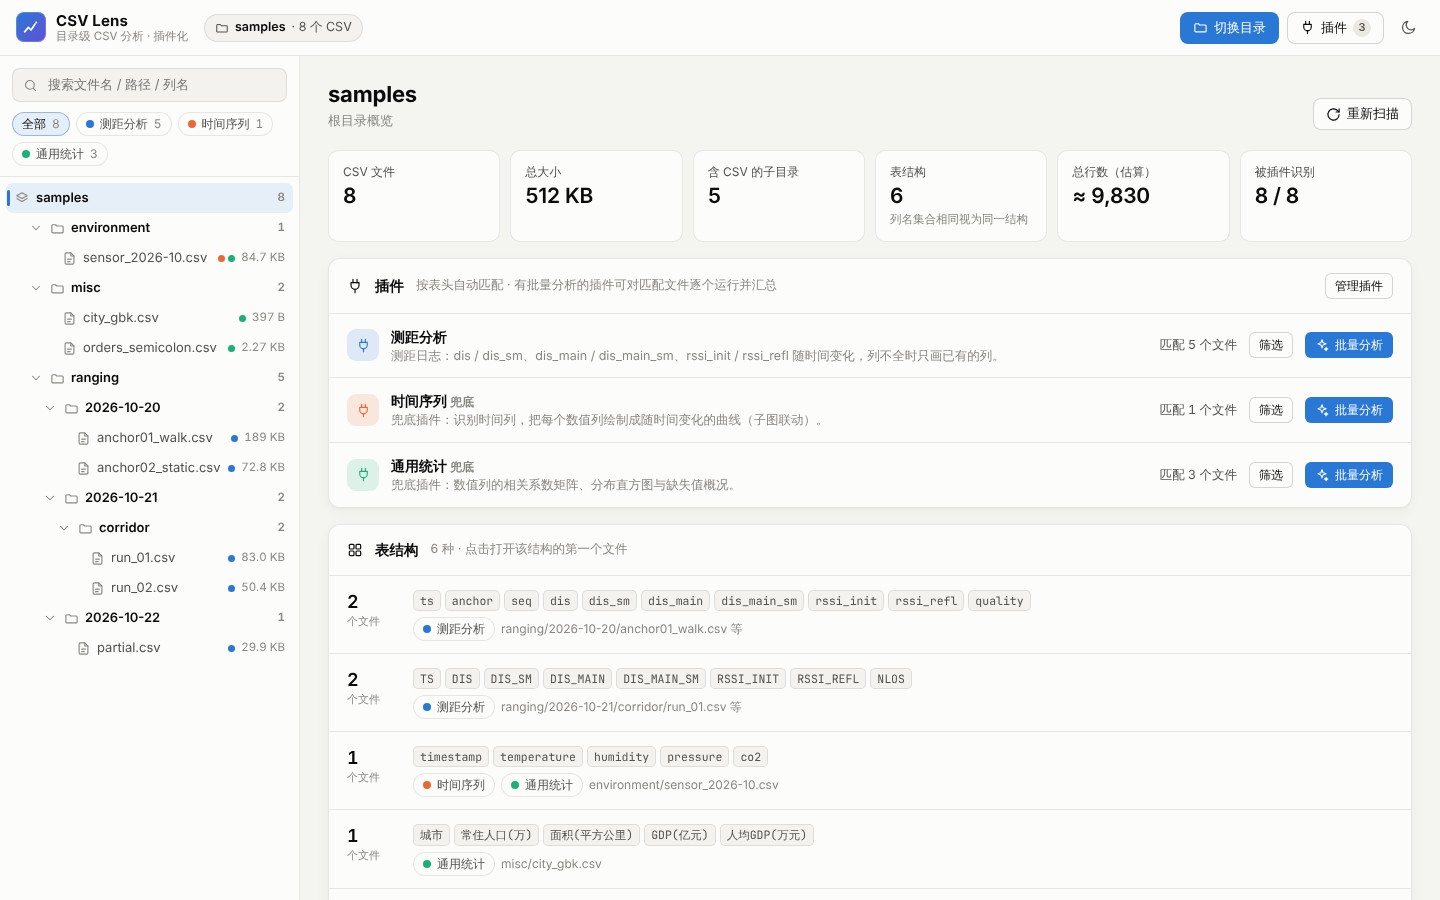
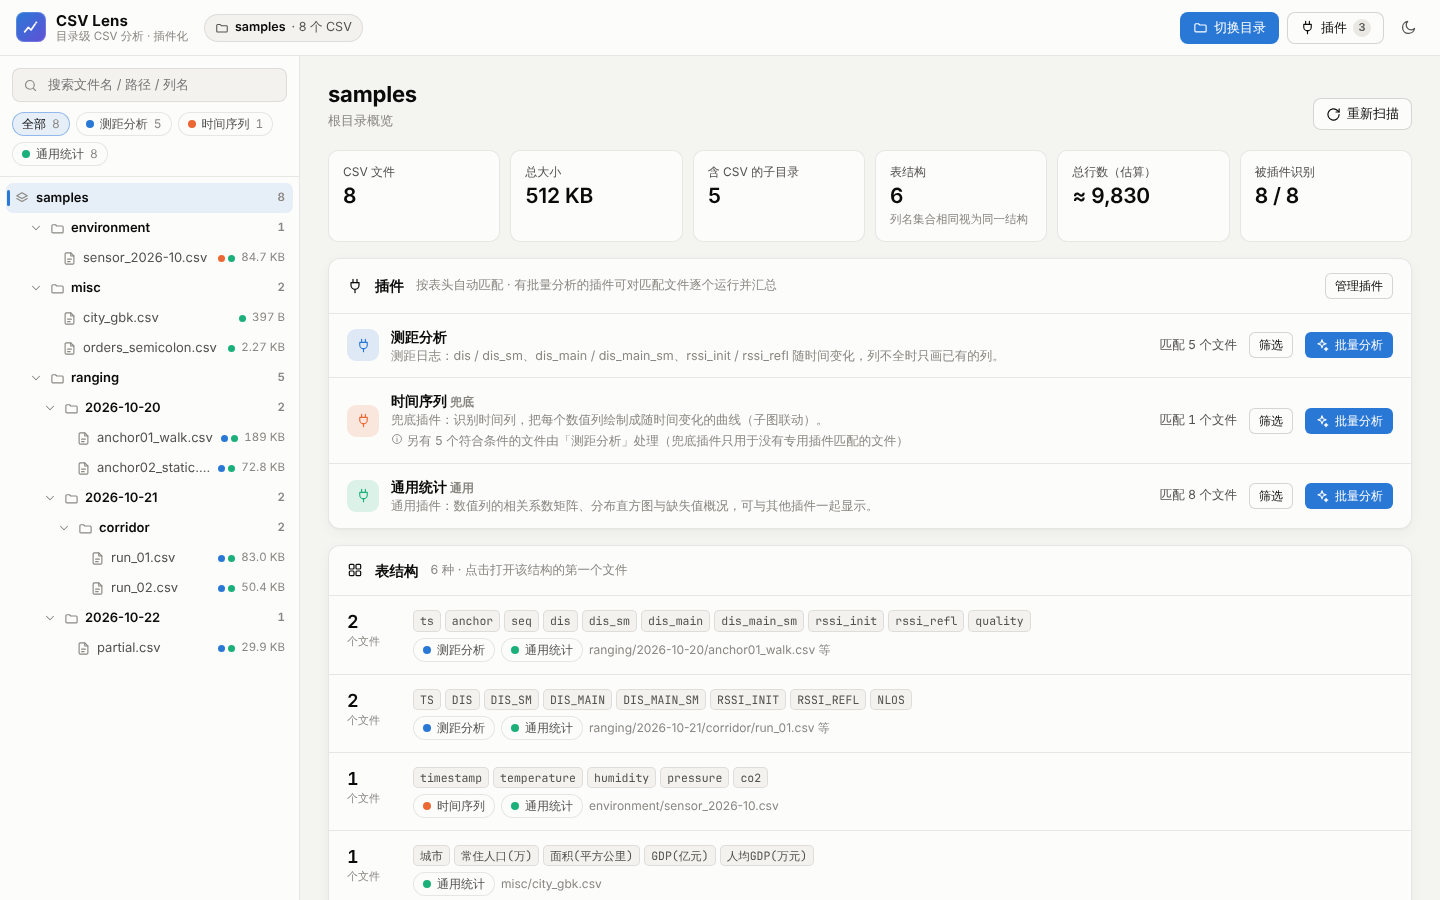
Show generic stats alongside dedicated plugins
Adds a third plugin kind, `general: true`: a general plugin is always
shown when it matches, alongside dedicated plugins, and does not make
fallback plugins step aside. generic-stats becomes a general plugin, so
ranging logs now show 测距分析 + 通用统计, while non-ranging time series
keep 时间序列 + 通用统计.

generic-stats now describes only the file's own columns (derived
features from other plugins are excluded from counts and missing-cell
rate) and leaves the time column and strictly increasing columns
(row numbers, counters) out of the correlation matrix and histograms.
The overview, plugin manager, README and template document the new
kind with a "通用" tag and tooltip.

Claude-Session: https://claude.ai/code/session_01Xv9E6Sow1sdjfL5LZ7da6U

Changed region(s): [[0.2188, 0.4356, 0.7188, 0.9956], [0.8125, 0.4356, 0.9688, 0.5911], [0.5312, 0.56, 0.5938, 0.5911]]

diff --git a/index.html b/index.html
@@ -1367,6 +1367,7 @@ function registerPlugin(def) {
     description: def.description ? String(def.description) : '',
     priority: Number(def.priority) || 0,
     fallback: !!def.fallback,
+    general: !!def.general,
     features: Array.isArray(def.features) ? def.features.filter(Boolean) : [],
     params: Array.isArray(def.params) ? def.params.filter((d) => d && d.key) : [],
     _match: compileMatcher(def.match),
@@ -2122,9 +2123,10 @@ function computeMatches() {
       try { return !!p._match(info); }
       catch (err) { console.warn('[CSV Lens] 插件 ' + p.id + ' 的 match() 出错：', err); return false; }
     }).map((p) => p.id);
+    // 专用插件（既非兜底也非通用）匹配时，兜底插件让位；通用插件总是一起显示
     const active = e.matchAll.filter((id) => Plugins.isEnabled(id)).map((id) => Plugins.byId.get(id));
-    const primary = active.filter((p) => !p.fallback);
-    e.matches = (primary.length ? primary : active).map((p) => p.id);
+    const dedicated = active.some((p) => !p.fallback && !p.general);
+    e.matches = active.filter((p) => !p.fallback || !dedicated).map((p) => p.id);
   }
 }
 function pluginsFor(e) { return (e.matches || []).map((id) => Plugins.byId.get(id)).filter(Boolean); }
@@ -2142,7 +2144,7 @@ function pluginCoverage(p, files) {
     eligible++;
     if ((e.matches || []).includes(p.id)) { active++; continue; }
     if (!Plugins.isEnabled(p.id)) continue;
-    for (const q of pluginsFor(e)) if (!q.fallback) takenBy.set(q.name, (takenBy.get(q.name) || 0) + 1);
+    for (const q of pluginsFor(e)) if (!q.fallback && !q.general) takenBy.set(q.name, (takenBy.get(q.name) || 0) + 1);
   }
   return { active, eligible, takenBy };
 }
@@ -2153,7 +2155,8 @@ function coverageNote(p, c) {
   const names = [...c.takenBy.keys()].map((n) => '「' + n + '」').join('、');
   return '另有 ' + taken + ' 个符合条件的文件由' + names + '处理（兜底插件只用于没有专用插件匹配的文件）';
 }
-const FALLBACK_TIP = '兜底插件：只用于没有其他（非兜底）插件匹配的文件；在「插件」面板停用专用插件后，兜底插件会接手这些文件';
+const FALLBACK_TIP = '兜底插件：只用于没有专用插件匹配的文件；在「插件」面板停用专用插件后，兜底插件会接手这些文件';
+const GENERAL_TIP = '通用插件：匹配时总是显示，可与专用插件同时出现，也不会让兜底插件让位';
 
 let pluginsChangedTimer = 0;
 function schedulePluginsChanged() {
@@ -2813,7 +2816,7 @@ function renderWelcome(main) {
         Plugins.list.length
           ? h('div', { class: 'plist' }, Plugins.sorted().map((p) => h('div', { class: 'prow' },
               h('span', { class: 'picon', style: { '--c': pluginColor(p) } }, icon('plug', 15)),
-              h('div', { class: 'grow' }, h('div', { class: 'pname' }, p.name, p.fallback ? h('span', { class: 'muted small' }, '  兜底') : null), h('div', { class: 'pdesc' }, matchSummary(p))))))
+              h('div', { class: 'grow' }, h('div', { class: 'pname' }, p.name, p.fallback ? h('span', { class: 'muted small' }, '  兜底') : null, p.general ? h('span', { class: 'muted small' }, '  通用') : null), h('div', { class: 'pdesc' }, matchSummary(p))))))
           : h('div', { class: 'card-body muted' }, '暂无插件。'))),
     h('p', { class: 'muted small', style: { marginTop: '18px' } }, '快捷键：', h('span', { class: 'kbd' }, 'J'), ' / ', h('span', { class: 'kbd' }, 'K'), ' 下一个 / 上一个文件，', h('span', { class: 'kbd' }, '/'), ' 搜索。'));
 }
@@ -2892,7 +2895,7 @@ function pluginOverviewCard(files, scope) {
     list.append(h('div', { class: 'prow', style: enabled ? null : { opacity: 0.55 } },
       h('span', { class: 'picon', style: { '--c': pluginColor(p) } }, icon('plug', 15)),
       h('div', { class: 'grow' },
-        h('div', { class: 'pname' }, p.name, p.fallback ? h('span', { class: 'muted small', title: FALLBACK_TIP }, '  兜底') : null, enabled ? null : h('span', { class: 'muted small' }, '  已停用')),
+        h('div', { class: 'pname' }, p.name, p.fallback ? h('span', { class: 'muted small', title: FALLBACK_TIP }, '  兜底') : null, p.general ? h('span', { class: 'muted small', title: GENERAL_TIP }, '  通用') : null, enabled ? null : h('span', { class: 'muted small' }, '  已停用')),
         h('div', { class: 'pdesc' }, p.description || matchSummary(p)),
         note ? h('div', { class: 'pdesc', style: { marginTop: '2px' } }, icon('info', 12), ' ', note) : null),
       h('span', { class: 'pcount' }, state.scanning ? '…' : '匹配 ' + n + ' 个文件'),
@@ -3526,7 +3529,7 @@ ${ys.map((y) => '    { title: ' + J(y + ' vs ' + (x || '行号')) + ", type: 'li
 const API_DOC_ROWS = [
   ['id / name / version / description', '基本信息；id 唯一，同 id 重新注册会覆盖（热更新）'],
   ['match', '匹配规则：{ columns, anyColumns, numericColumns, path, test } 或函数 (info) => boolean。列名不区分大小写，columns 里的数组表示别名'],
-  ['priority / fallback', '排序优先级；fallback: true 为兜底插件，只在没有其他插件匹配时启用'],
+  ['priority / fallback / general', '排序优先级；fallback: true 为兜底插件，只在没有专用插件匹配时启用；general: true 为通用插件，总是与其他插件一起显示，且不会让兜底插件让位'],
   ['params', '可调参数 [{ key, label, type: number | select | checkbox | text, default, options }]，在 ctx.params 中读取'],
   ['features', '衍生特征 [{ name, label, description, requires, compute(t, ctx) → 等长数组 }]，新列可用于绘图、导出；requires 中的列缺失时自动跳过'],
   ['metrics(t, ctx)', '返回指标卡片 [{ label, value, unit, digits, hint }]'],
@@ -3576,7 +3579,7 @@ function openPluginManager(initialTab) {
       body.append(h('div', { class: 'pm-row' },
         h('span', { class: 'picon', style: { '--c': pluginColor(p) } }, icon('plug', 16)),
         h('div', { class: 'grow' },
-          h('div', { class: 'pm-name' }, p.name, p.version ? h('span', { class: 'muted small' }, 'v' + p.version) : null, h('span', { class: 'tag' }, origin), p.fallback ? h('span', { class: 'tag', title: FALLBACK_TIP }, '兜底') : null, h('span', { class: 'muted small mono' }, p.id)),
+          h('div', { class: 'pm-name' }, p.name, p.version ? h('span', { class: 'muted small' }, 'v' + p.version) : null, h('span', { class: 'tag' }, origin), p.fallback ? h('span', { class: 'tag', title: FALLBACK_TIP }, '兜底') : null, p.general ? h('span', { class: 'tag', title: GENERAL_TIP }, '通用') : null, h('span', { class: 'muted small mono' }, p.id)),
           p.description ? h('div', { class: 'pm-desc' }, p.description) : null,
           h('div', { class: 'pm-meta' }, matchSummary(p), state.entries.length ? ' · 当前目录匹配 ' + cov.active + ' 个文件' : '', hooks ? ' · ' + hooks : ''),
           state.entries.length && note ? h('div', { class: 'pm-meta' }, icon('info', 12), ' ', note) : null,

diff --git a/plugins/generic-stats.js b/plugins/generic-stats.js
@@ -1,13 +1,53 @@
 /**
- * 通用统计（兜底插件）—— 任意含 ≥ 2 个数值列的 CSV：
+ * 通用统计（通用插件）—— 任意含 ≥ 2 个数值列的 CSV：
  * 相关系数矩阵、各数值列分布直方图、缺失值概况。
+ *
+ * general: true 表示「通用插件」：匹配时总是显示，可以和测距分析等专用插件一起出现，
+ * 也不会让「时间序列」这类兜底插件让位。
+ * 时间列和严格递增的列（序号、计数器、时间戳）分布均匀、与其他列的相关性没有意义，
+ * 因此不参与相关矩阵和直方图。
  */
+(() => {
+// 严格递增的数值列视为序号 / 时间轴
+function isIndexLike(values) {
+  let prev = -Infinity, n = 0;
+  for (let i = 0; i < values.length; i++) {
+    const v = values[i];
+    if (!Number.isFinite(v)) continue;
+    if (v <= prev) return false;
+    prev = v;
+    n++;
+  }
+  return n > 2;
+}
+
+// 只统计文件本身的列（不含其他插件算出的衍生特征）
+function originalColumns(t) {
+  const all = t.columns.filter((c) => !t.getColumn(c).derived);
+  return { all, numeric: all.filter((c) => t.isNumeric(c)) };
+}
+
+// 缺失单元格占比（%）
+function missingPct(t, cols) {
+  let missing = 0;
+  for (const name of cols) missing += t.stats(name).missing;
+  const cells = t.rowCount * cols.length;
+  return cells ? (missing / cells) * 100 : 0;
+}
+
+function statColumns(t, utils, max) {
+  const tc = utils.timeColumn(t);
+  return originalColumns(t).numeric
+    .filter((c) => c !== tc && !isIndexLike(t.col(c)))
+    .slice(0, max);
+}
+
 CSVViewer.registerPlugin({
   id: 'generic-stats',
   name: '通用统计',
-  version: '1.0.0',
-  description: '兜底插件：数值列的相关系数矩阵、分布直方图与缺失值概况。',
-  fallback: true,
+  version: '1.1.0',
+  description: '通用插件：数值列的相关系数矩阵、分布直方图与缺失值概况，可与其他插件一起显示。',
+  general: true,
   priority: -10,
 
   match: (info) => info.numericColumns.length >= 2,
@@ -18,19 +58,17 @@ CSVViewer.registerPlugin({
   ],
 
   metrics(t) {
-    let missing = 0;
-    for (const name of t.columns) missing += t.stats(name).missing;
-    const cells = t.rowCount * t.columns.length;
+    const cols = originalColumns(t);
     return [
       { label: '行数', value: t.rowCount },
-      { label: '数值列', value: t.numericColumns.length },
-      { label: '其他列', value: t.columns.length - t.numericColumns.length },
-      { label: '缺失单元格', value: cells ? (missing / cells) * 100 : 0, unit: '%', digits: 2 },
+      { label: '数值列', value: cols.numeric.length },
+      { label: '其他列', value: cols.all.length - cols.numeric.length },
+      { label: '缺失单元格', value: missingPct(t, cols.all), unit: '%', digits: 2 },
     ];
   },
 
   charts(t, { utils: u, params }) {
-    const cols = t.numericColumns.filter((c) => !t.getColumn(c).derived).slice(0, params.maxCols);
+    const cols = statColumns(t, u, params.maxCols);
     const data = [];
     for (let i = 0; i < cols.length; i++) {
       for (let j = 0; j < cols.length; j++) {
@@ -38,7 +76,7 @@ CSVViewer.registerPlugin({
       }
     }
     return [
-      {
+      cols.length >= 2 && {
         title: '相关系数矩阵', subtitle: 'Pearson，蓝 = 负相关，红 = 正相关',
         type: 'heatmap', xCategories: cols, yCategories: cols, data,
         min: -1, max: 1, diverging: true, span: 2,
@@ -49,13 +87,13 @@ CSVViewer.registerPlugin({
   },
 
   summarize(t) {
-    let missing = 0;
-    for (const name of t.columns) missing += t.stats(name).missing;
+    const cols = originalColumns(t);
     return {
       rows: t.rowCount,
-      columns: t.columns.length,
-      numeric_columns: t.numericColumns.length,
-      missing_pct: t.rowCount ? (missing / (t.rowCount * t.columns.length)) * 100 : 0,
+      columns: cols.all.length,
+      numeric_columns: cols.numeric.length,
+      missing_pct: missingPct(t, cols.all),
     };
   },
 });
+})();

diff --git a/plugins/_template.js b/plugins/_template.js
@@ -31,7 +31,8 @@ CSVViewer.registerPlugin({
   version: '0.1.0',
   description: '一句话说明插件做什么。',
   priority: 0,                    // 多个插件匹配同一文件时，数值大的排在前面
-  fallback: false,                // true = 兜底插件：只在没有其他非兜底插件匹配时启用
+  fallback: false,                // true = 兜底插件：只在没有专用插件匹配时启用
+  general: false,                 // true = 通用插件：总是与其他插件一起显示，且不会让兜底插件让位
   collapsed: false,               // 插件卡片默认是否折叠
 
   /* ---------- 匹配：决定哪些 CSV 适用此插件（只读表头，速度很快） ---------- */

diff --git a/README.md b/README.md
@@ -111,7 +111,7 @@ CSVViewer.registerPlugin({
 
 完整版本（`plugins/ranging.js`）还包含两路平滑残差、RSSI 差、采样间隔、离群点、可调参数、rssi vs dis 散点、残差分布和跨文件汇总图，同样都按列是否存在自动取舍。
 如果你的文件列名不同，改 `match` 和各处列名即可。`match` 里可以写别名数组（如 `['dis_sm', 'dissm']`），在 `charts(t)` 里用 `t.find(['dis_sm', 'dissm'])` 取得实际列名。
-仓库另外自带两个**兜底插件**：`timeseries.js`（任意带时间列的 CSV：每个数值列随时间的曲线）和 `generic-stats.js`（相关系数矩阵、分布直方图）。
+仓库另外自带两个通用分析插件：`timeseries.js`（**兜底插件**，任意带时间列的 CSV：每个数值列随时间的曲线，有专用插件时自动让位）和 `generic-stats.js`（**通用插件**，相关系数矩阵、分布直方图，与其他插件一起显示）。
 写新插件可从 `plugins/_template.js` 开始，里面注释了所有字段。
 
 ### 插件 API
@@ -120,7 +120,9 @@ CSVViewer.registerPlugin({
 CSVViewer.registerPlugin({
   id, name, version, description,   // id 必填且唯一
   priority: 0,                      // 多个插件匹配同一文件时，大的排前面
-  fallback: false,                  // true = 兜底插件：只在没有其他（非兜底）插件匹配时启用
+  fallback: false,                  // true = 兜底插件：只在没有专用插件匹配时启用
+  general: false,                   // true = 通用插件：总是与其他插件一起显示，且不会让兜底插件让位
+                                    // 两者都为 false 即专用插件（如测距分析）：匹配时兜底插件让位
   collapsed: false,                 // 卡片默认是否折叠
   match,                            // 匹配规则（见下）
   params: [],                       // 可调参数（见下）
@@ -198,7 +200,7 @@ plugins/
   index.js              插件清单：列出随页面加载的插件
   ranging.js            测距分析（ts / dis / dis_sm / dis_main / dis_main_sm / rssi_init / rssi_refl）
   timeseries.js         时间序列（兜底）
-  generic-stats.js      通用统计（兜底）
+  generic-stats.js      通用统计（通用插件）
   _template.js          插件模板（带完整注释，不会自动加载）
 samples/                示例数据（generate_samples.py 可重新生成）
 lib/echarts.min.js      ECharts 5.6.0（Apache-2.0）
